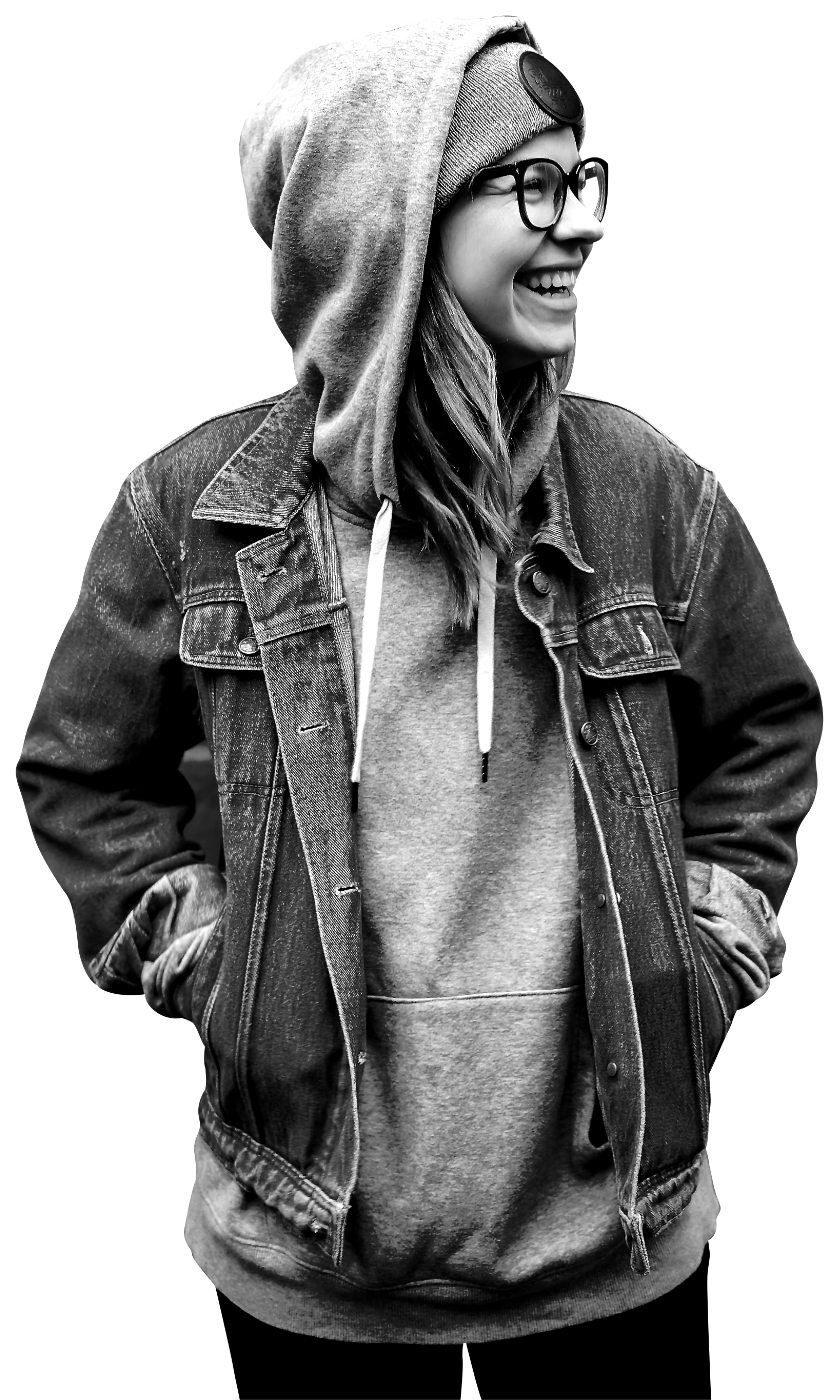
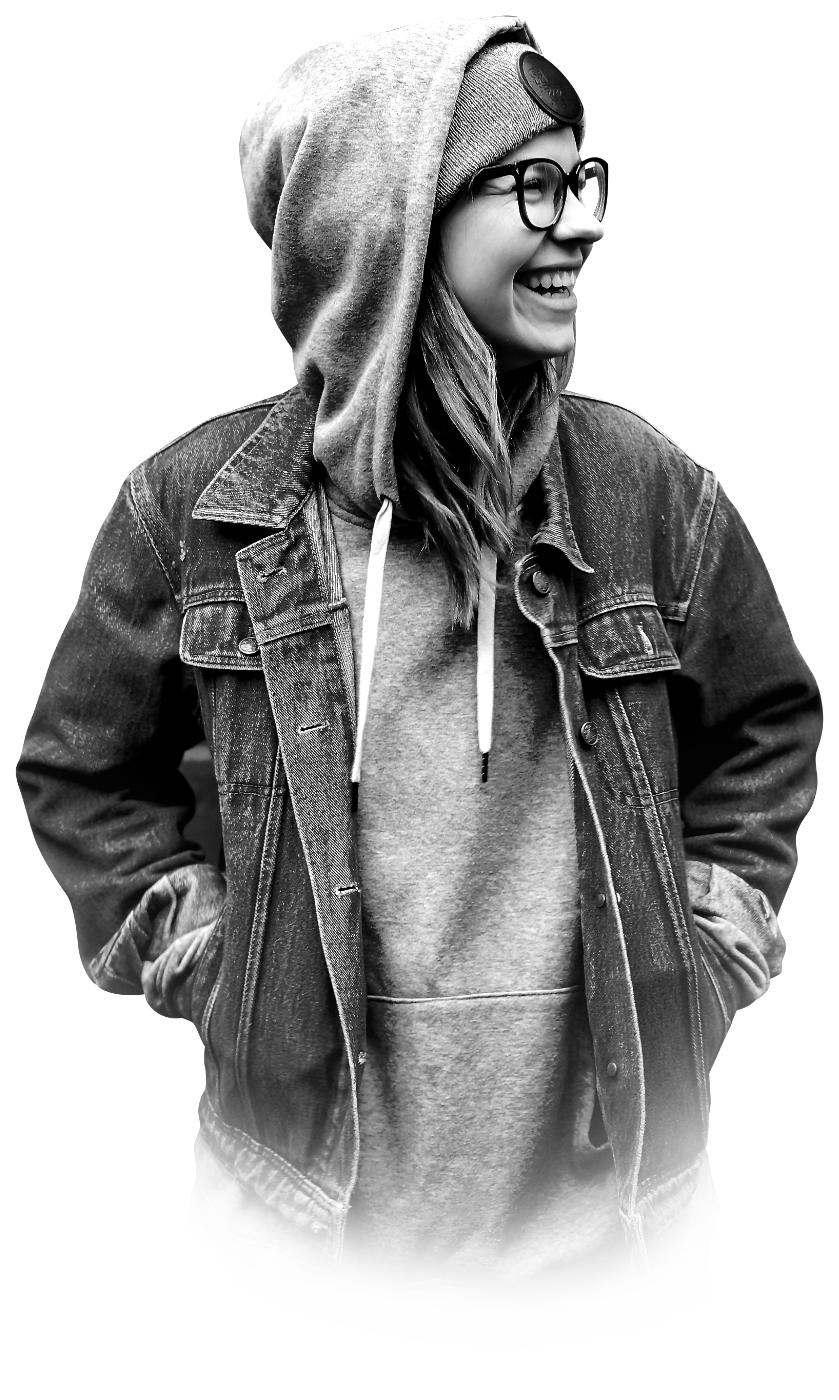
gallery layout updates, added category info to thumbnail component, edited about me hero image

Changed region(s): [[0.062, 0.5836, 0.9607, 1.0]]

diff --git a/styles/style.module.sass b/styles/style.module.sass
@@ -42,80 +42,12 @@
     display: block
     width: 100%
 
-.gallery_widget
-    width: 100%
-    height: 100%
-    position: relative
-    display: grid
-    grid-template-columns: repeat(4, 1fr)
-    gap: #{v.$gutter}#{v.$gutterUnit}
-
-    .gallery_item
-        position: relative
-        overflow: hidden
-        width: 100%
-        cursor: pointer
-        // padding-top: 100%
-
-        &.col-span-2
-            grid-column: span 2
-        &.row-span-2
-            grid-row: span 2
-
-        .meta_data
-            position: absolute
-            width: 100%
-            height: 100%
-            z-index: 1
-            top: 0
-            color: v.$bg
-            display: flex
-            flex-flow: column 
-            justify-content: flex-end
-            padding: 1em
-            opacity: 0
-            backdrop-filter: brightness(80%)
-            transition: opacity .3s ease, backdrop-filter .3s ease
-
-            .title
-                margin-bottom: .35em
-            .category
-                font-size: 80%
-
-
-        .item_wrap
-            position: relative
-            display: block
-            height: 100%
-            width: 100%
-            top: 0
-            left: 0
-            transform: scale(1.025, 1.025)
-            transition: transform .3s ease
-
-            .link_more
-                text-align: left
-                position: absolute
-                font-size: 1.5rem
-                font-weight: 700
-                width: 6ch
-                display: block
-                line-height: 1
-                bottom: 0
-                .dot
-                    color: orange
-
-        &:hover, &.active
-            .meta_data
-                opacity: 1
-                transition: opacity .1s ease
-            .item_wrap
-                transform: scale(1, 1)
+.about_hero_wrap
+    display: none
 
 
 @include mxn.screen(phone, landscape)
-    .gallery_widget
-            // grid-template-areas:"tall square1 wide wide" "tall square2 square3 square4"
+    
 
 @include mxn.screen(ipad)
     .dlcv_button
@@ -128,12 +60,19 @@
         display: block
         width: 100%
         height: 575px
+        // &::after
+        //     content: ''
+        //     position: absolute
+        //     width: 100%
+        //     height: 45%
+        //     left: 0
+        //     bottom: 0
+        //     background: linear-gradient(0deg, v.$bg 30%, transparent 90%)
+        //     transform: translate(-64px, -64px)
         div
             overflow: unset!important
         .about_hero
             transform: translate(-64px, -64px)
+
     .intro
         padding-right: 3em
-
-    .gallery_widget
-        // grid-template-areas:"tall square1 wide wide" "tall square2 square3 square4"

diff --git a/pages/index.js b/pages/index.js
@@ -146,38 +146,6 @@ export default function Home({ portfolio, job }) {
         </ul>
         {/* tabs */}
         <Gallery data={state.designs} />
-        {/* <div className={cn(stl.gallery_widget)}>
-          {state.designs.map((item, key) => (
-            <div
-              key={key}
-              className={cn(
-                stl.gallery_item,
-                stl[`_${key}`],
-                { [stl['col-span-2']]: item.span == 'col' },
-                { [stl['row-span-2']]: item.span == 'row' },
-              )}
-              // onClick={() => preview(item.id)}
-            >
-              <div className={stl.meta_data}>
-                <h5 className={cn('medium t-6', stl.title)}>{item.title}</h5>
-                <span className={cn('uppercase regular', stl.category)}>
-                  {item.category}
-                </span>
-              </div>
-              <div className={stl.item_wrap}>
-                <Image
-                  priority
-                  src={item.image}
-                  layout="responsive"
-                  objectFit="cover"
-                  width="100"
-                  height="100"
-                  alt={item.title}
-                />
-              </div>
-            </div>
-          ))}
-        </div> */}
         <Link href="/">
           <a className="block medium mt-2">click for more</a>
         </Link>
@@ -198,8 +166,7 @@ export default function Home({ portfolio, job }) {
             </span>
           </Column>
           <Column sm="12" md="8">
-            <h2 className="t-5 uppercase medium mb-1">About me</h2>
-            <Resume profileData={job.data.experience} />
+            <Resume profileData={job.data.experience} title="about me" />
           </Column>
         </Row>
       </section>

diff --git a/components/Gallery/gallery.js b/components/Gallery/gallery.js
@@ -1,17 +1,34 @@
+import Image from 'next/image'
 import cn from 'classnames'
 import style from './gallery.module.sass'
+import Thumbnail from '../Thumbnail/thumbnail'
 
 export default function Gallery({ data }) {
   return (
     <div className={cn(style.gallery)}>
       {data.map((item, key) => (
-        <div key={key}>
-          <div className={style.meta_content}>
-            <h5 className={cn('medium t-6', style.title)}>{item.title}</h5>
-            <span className={cn('uppercase regular')}>{item.category}</span>
-          </div>
-          <div className={style.background}></div>
-        </div>
+        <Thumbnail
+          key={key}
+          data={item}
+          className={style.item_container}
+          showCategory
+        />
+        // <div className={cn(style.item_container)}>
+        //   <div key={key} className={cn(style.item)}>
+        //     <div className={style.meta_content}>
+        //       <h5 className={cn('medium t-6', style.title)}>{item.title}</h5>
+        //       <span className={cn('uppercase regular')}>{item.category}</span>
+        //     </div>
+        //     <div className={style.background}>
+        //       <Image
+        //         src={item.image}
+        //         layout="fill"
+        //         objectFit="cover"
+        //         alt={item.title}
+        //       />
+        //     </div>
+        //   </div>
+        // </div>
       ))}
     </div>
   )

diff --git a/components/Thumbnail/thumbnail.js b/components/Thumbnail/thumbnail.js
@@ -3,7 +3,13 @@ import Image from 'next/image'
 import cn from 'classnames'
 import style from './thumbnail.module.sass'
 
-export default function Thumbnail({ data, className, height, layout }) {
+export default function Thumbnail({
+  data,
+  className,
+  showCategory = false,
+  height,
+  layout,
+}) {
   const customHeight = { paddingTop: `${height}%` }
   return (
     <div className={cn(style.thumbnail, className)}>
@@ -14,11 +20,14 @@ export default function Thumbnail({ data, className, height, layout }) {
               <a className={style.link}></a>
             </Link>
           </div>
-          <h4
-            className={cn(style.title, 't-6', 'mb-1', 'capitalize', 'medium')}
-          >
+          <h4 className={cn(style.title, 't-6', 'capitalize', 'medium')}>
             {data.title}
           </h4>
+          {showCategory && data.category && (
+            <span className={cn('block capitalize', style.category)}>
+              {data.category}
+            </span>
+          )}
         </div>
         <div className={cn(style.background)}>
           <Image

diff --git a/components/Thumbnail/thumbnail.module.sass b/components/Thumbnail/thumbnail.module.sass
@@ -19,14 +19,18 @@
             left: 0
             width: 100%
             height: 100%
-            padding: 0 1em
+            padding: 1em
             display: flex
-            align-items: flex-end
+            flex-flow: column
+            justify-content: flex-end
             text-align: left
             color: v.$bg
             opacity: 0
             backdrop-filter: brightness(80%)
             transition: opacity .3s ease, backdrop-filter .3s ease
+
+            .category
+                margin-top: .25em
 
         .background
             position: relative

diff --git a/components/Resume/resume.js b/components/Resume/resume.js
@@ -3,9 +3,10 @@ import Accordion from '../Accordion/accordion'
 import style from './resume.module.sass'
 import cn from 'classnames'
 
-export default function Resume({ profileData }) {
+export default function Resume({ profileData, title }) {
   return (
     <>
+      {title && <h2 className="t-5 uppercase medium mb-1">{title}</h2>}
       <p>
         I am a self-thought Graphic Designer and Front-end Developer. In 2017 I
         decided to do some coding and set aside designing. Besides, I love

diff --git a/components/Gallery/gallery.module.sass b/components/Gallery/gallery.module.sass
@@ -1,0 +1,21 @@
+@use 'sass:math'
+@use '../../styles/mixins' as mxn
+@use '../../styles/variables' as v
+
+$gap: #{v.$gutter / 2}#{v.$gutterUnit}
+    
+.gallery
+    display: grid
+    grid-template-columns: repeat(2, 1fr)
+    margin: 0 -$gap
+
+    .item_container
+        padding: $gap
+
+@include mxn.screen(phone, landscape)
+    .gallery
+        grid-template-columns: repeat(3, 1fr)
+
+@include mxn.screen(ipad)
+    .gallery
+        grid-template-columns: repeat(4, 1fr)
